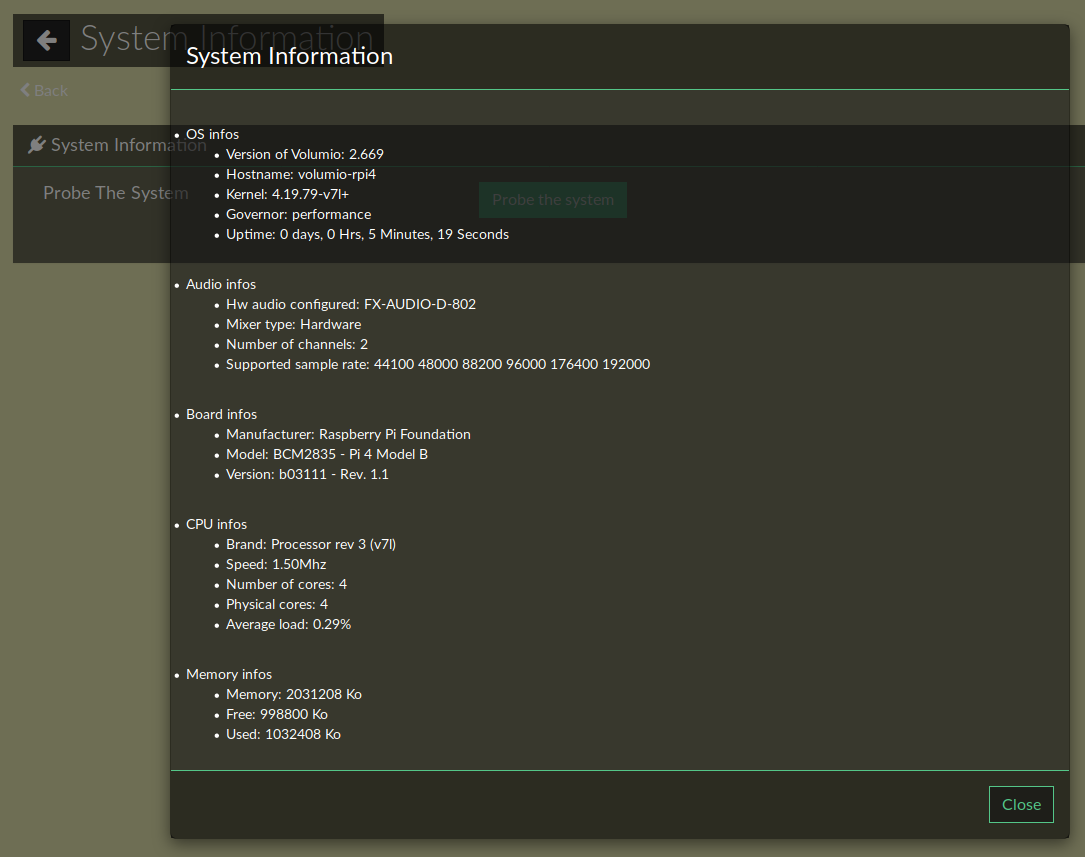
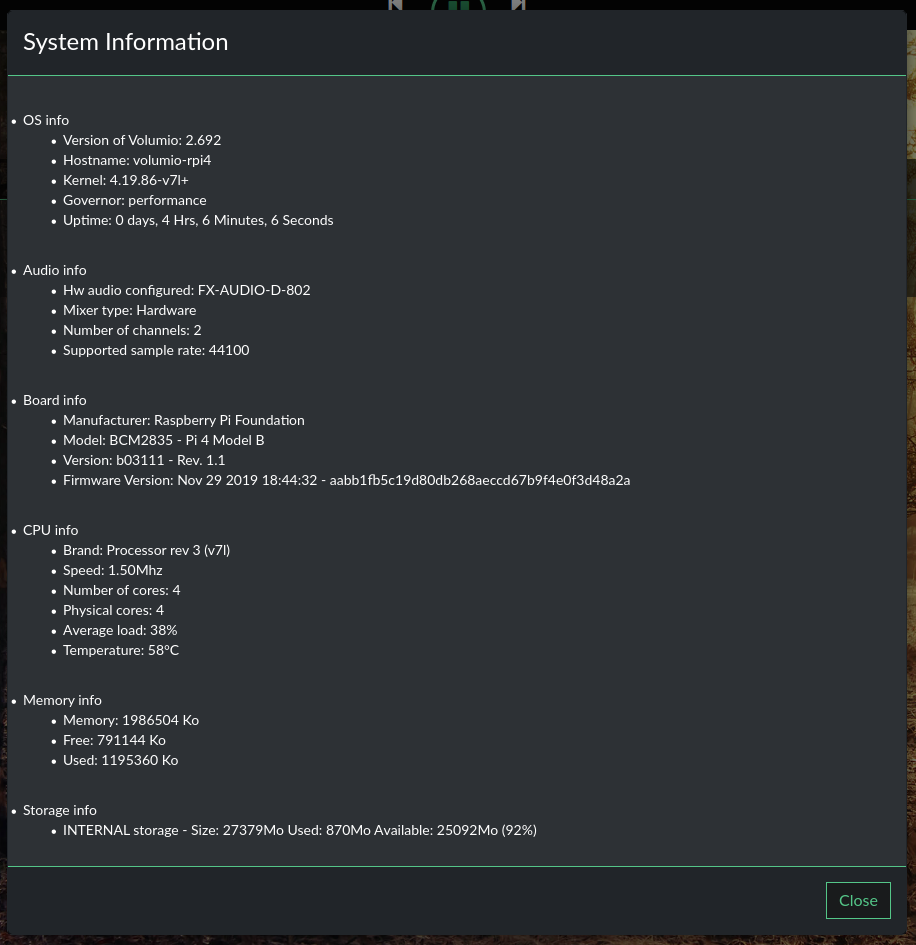
updating plugin Systeminfo version 0.1.1

diff --git a/plugins/miscellanea/Systeminfo/index.js b/plugins/miscellanea/Systeminfo/index.js
@@ -239,18 +239,57 @@ Systeminfo.prototype.temperature = function() {
  })
 };
 
+//local storage probe
+Systeminfo.prototype.storages = function() {
+ var self = this; 
+ var storages;
+ exec("/bin/df -hBM --output=size,used,avail /data | /usr/bin/tail -1", function(error, stdout, stderr) {
+  if (error) {
+	   self.logger.info('failed ' + error);
+	   self.commandRouter.pushToastMessage('error', 'storage detection failed');
+	   storages = 'not applicable';
+  } else {
+
+	
+	while(stdout.charAt(0) === ' ')
+{
+
+	stdout = stdout.substr(1).replace(/  /g,' ');
+	console.log('Storage info ' + stdout);
+	self.config.set('storages', stdout);
+}
+
+	}
+ })
+};
+
 Systeminfo.prototype.getsysteminfo = function() {
  var self = this;
  var data;
 	self.hwinfo();
 	self.firmwareversion();
 	self.temperature();
+	self.storages();
  si.getAllData()
   .then(data => {
+
+//memory
    var memtotal = data.mem.total / 1024 + ' Ko';
    var memfree = data.mem.free / 1024 + ' Ko';
    var memused = data.mem.used / 1024 + ' Ko';
 
+//local storage
+   var storages = self.config.get('storages');
+   var fields = storages.split(' ');
+   var size = fields[0];
+   var used = fields[1];
+   var avail = fields[2];
+   var savail = avail.slice(0, -2)
+   var ssize = size.slice(0, -1)
+   var pcent = ((savail/ssize)*100).toFixed(0);
+console.log( 'internal       ' + avail +'   '+ savail );
+
+//human readable uptime
    var uptime = data.time.uptime;
    var seconds = parseInt(uptime, 10);
    var days = Math.floor(seconds / (3600 * 24));
@@ -262,12 +301,14 @@ Systeminfo.prototype.getsysteminfo = function() {
    console.log(days + " days, " + hrs + " Hrs, " + mnts + " Minutes, " + seconds + " Seconds");
    var cuptime = (days + " days, " + hrs + " Hrs, " + mnts + " Minutes, " + seconds + " Seconds");
 
+//audio hw
    var nchannels = self.config.get('nchannels');
    var samplerate = self.config.get('smpl_rate');
    var cmixt = self.config.get('cmixt');
    var cout = self.config.get('cout');
 console.log('output'+ cout + 'cmixt' + cmixt);
 
+//firmware
    var firmware;
    var firm;
 	if (self.config.get('firmware') =='undefined')
@@ -278,29 +319,32 @@ console.log('output'+ cout + 'cmixt' + cmixt);
 	} ;
 //console.log ('MMMMMMMMMMMMMMMMMMMMMMmmm' + firmware);
 
+
+//temperature
   var roundtemp = self.config.get('temperature');
 
 //messages generation
-      var messages1 = "<br><li>Board infos</br></li><ul><li>Manufacturer: " + data.system.manufacturer + "</li><li>Model: " + data.system.model + "</li><li>Version: " + data.system.version + "</li><li>Firmware Version: " + firmware + "</li></ul>";
+      var messages1 = "<br><li>Board info</br></li><ul><li>Manufacturer: " + data.system.manufacturer + "</li><li>Model: " + data.system.model + "</li><li>Version: " + data.system.version + "</li><li>Firmware Version: " + firmware + "</li></ul>";
 
-      var messages2 = "<br><li>CPU infos</br></li><ul><li>Brand: " + data.cpu.brand + "</li><li>Speed: " + data.cpu.speed + "Mhz</li><li>Number of cores: " + data.cpu.cores + "</li><li>Physical cores: " + data.cpu.physicalCores + "</li><li>Average load: " + (data.currentLoad.avgload*100).toFixed(0) + "%</li><li>Temperature: " + roundtemp + "°C</li></ul>";
+      var messages2 = "<br><li>CPU info</br></li><ul><li>Brand: " + data.cpu.brand + "</li><li>Speed: " + data.cpu.speed + "Mhz</li><li>Number of cores: " + data.cpu.cores + "</li><li>Physical cores: " + data.cpu.physicalCores + "</li><li>Average load: " + (data.currentLoad.avgload*100).toFixed(0) + "%</li><li>Temperature: " + roundtemp + "°C</li></ul>";
 
-      var messages3 = "<br><li>Memory infos</br></li><ul><li>Memory: " + memtotal + "</li><li>Free: " + memfree + "</li><li>Used: " + memused + "</li></ul>";
+      var messages3 = "<br><li>Memory info</br></li><ul><li>Memory: " + memtotal + "</li><li>Free: " + memfree + "</li><li>Used: " + memused + "</li></ul>";
 
       var sysversionf = self.commandRouter.executeOnPlugin('system_controller', 'system', 'getSystemVersion', '')
       sysversionf.then((info) => {
        try {
         var result = info.systemversion
 
-        var messages4 = "<br><li>OS infos</br></li><ul><li>Version of Volumio: " + result + "</li><li>Hostname: " + data.os.hostname + "</li><li>Kernel: " + data.os.kernel + "</li><li>Governor: " + data.cpu.governor + "</li><li>Uptime: " + cuptime + "</li></ul>";
+        var messages4 = "<br><li>OS info</br></li><ul><li>Version of Volumio: " + result + "</li><li>Hostname: " + data.os.hostname + "</li><li>Kernel: " + data.os.kernel + "</li><li>Governor: " + data.cpu.governor + "</li><li>Uptime: " + cuptime + "</li></ul>";
 
         //var messages5 = "<br><li>Disks infos</br></li><ul><li>Disks: " + data.fsSize.size +"</li><li>Size: " + data.fsSize.size +"</li><li>Used: " + data.fsSize.use+"</li></ul>";
 
-        var messages6 = "<br><li>Audio infos</br></li><ul><li>Hw audio configured: " + cout + "</li><li>Mixer type: " + cmixt + "</li><li>Number of channels: " + nchannels + "</li><li>Supported sample rate: " + samplerate + "</li></ul>";
+        var messages6 = "<br><li>Audio info</br></li><ul><li>Hw audio configured: " + cout + "</li><li>Mixer type: " + cmixt + "</li><li>Number of channels: " + nchannels + "</li><li>Supported sample rate: " + samplerate + "</li></ul>";
+	var messages7 = "<br><li>Storage info</br></li><ul><li>INTERNAL storage - Size: " + size +"o Used: " + used + "o Available: " + savail + "Mo (" + pcent + "%)</li></ul>";
 
         var modalData = {
          title: 'System Information',
-         message: messages4 + messages6 + messages1 + messages2 + messages3,
+         message: messages4 + messages6 + messages1 + messages2 + messages3 + messages7,
          size: 'lg',
          buttons: [{
           name: 'Close',

diff --git a/plugins/miscellanea/Systeminfo/readme.md b/plugins/miscellanea/Systeminfo/readme.md
@@ -1,4 +1,4 @@
-December 27th
+2020 January 17th
 
 ###  About the plugin
 
@@ -22,6 +22,10 @@ volumio plugin install
 cd ..
 rm -Rf Systeminfo*
 ```
+
+January 17th 2020
+
+- add internal storage info
 
 Dec 27th 2019
 
